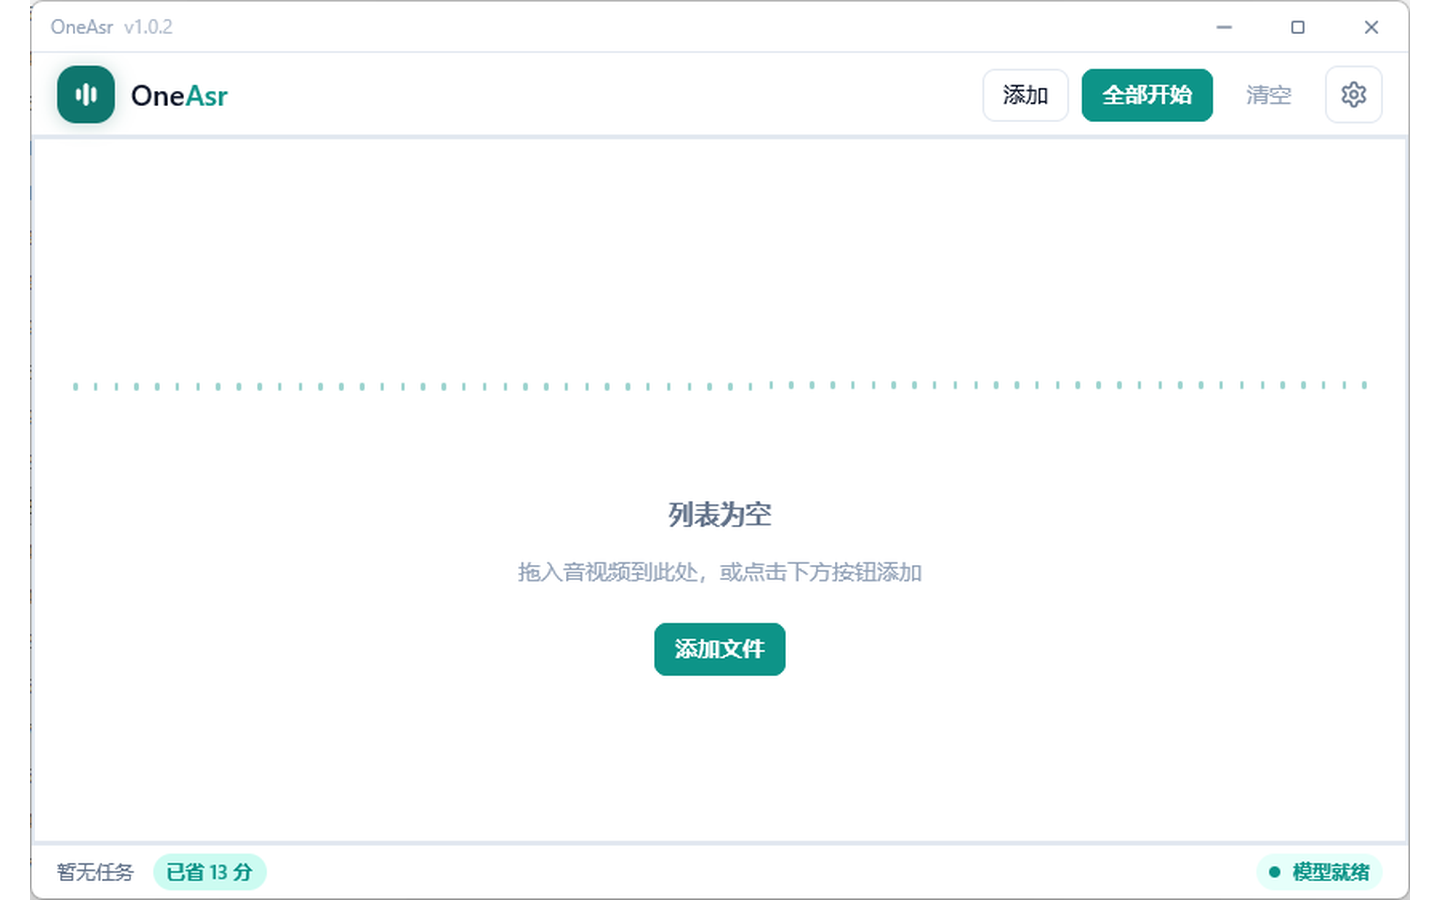
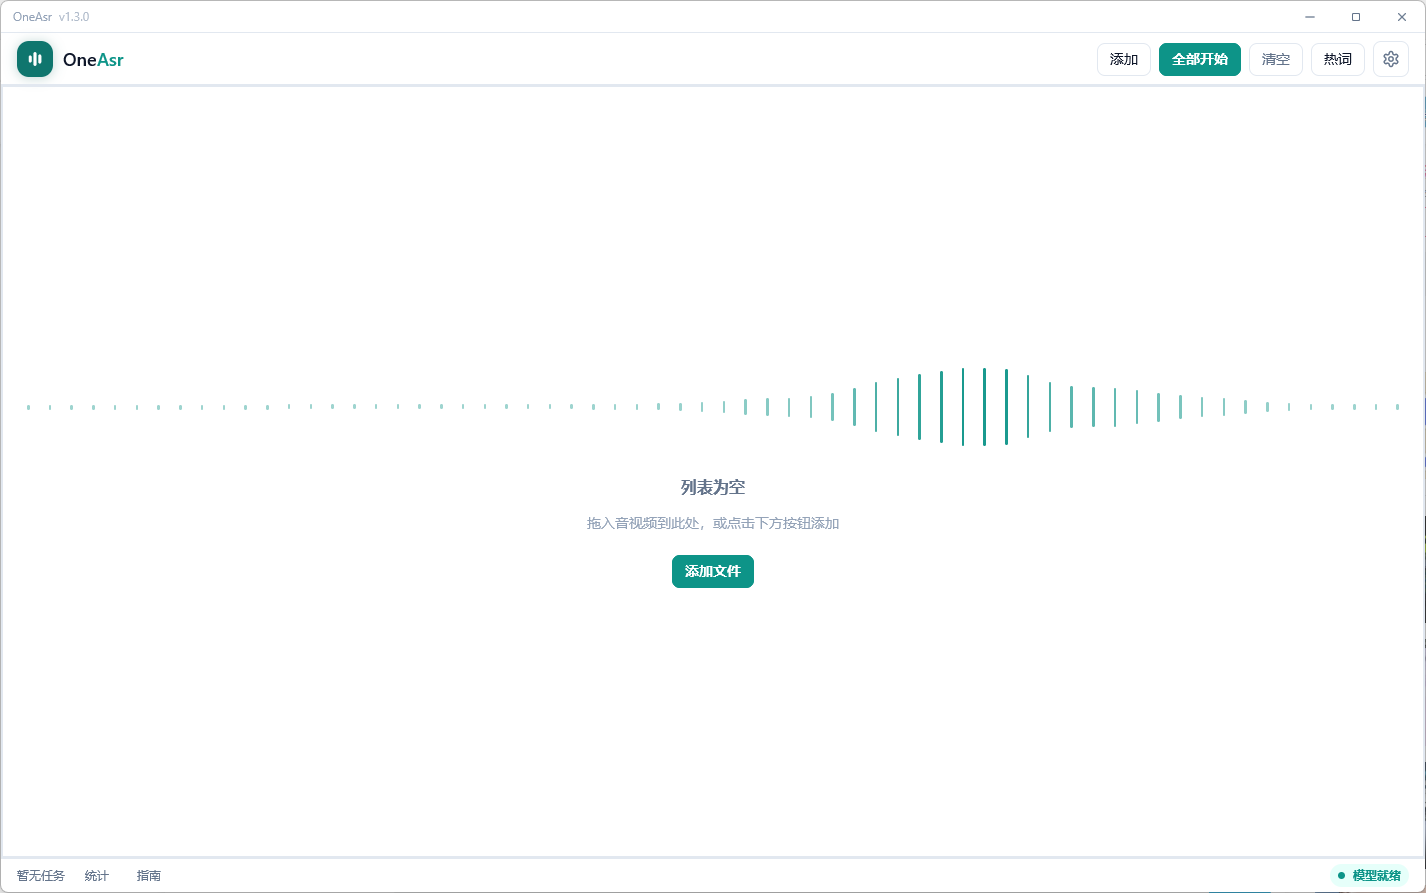
docs(readme): 用 v1.3.0 的两张新截图替换旧图（主界面 / 设置抽屉）
旧图还停在 v1.0.2。新图由你实机截取（1426×893，标题栏 v1.3.0）：主界面空态
（含波形动画）与设置抽屉。第二张的内容不再是"任务列表 + 设置"，
`tasks-settings.png` 随之改名为 `settings.png`；双 README 的小节图注、表头与
alt 文案同步更新。

验证：scripts/verify-version.py、scripts/verify-i18n.py 通过（README 头部
版本链接窗口未受影响）。
未验：GitHub 上的实际渲染观感。

Changed region(s): [[0.0, 0.0, 1.0, 1.0], [0.3703, 0.514, 0.648, 0.7559], [0.5554, 0.4233, 0.864, 0.4838]]

diff --git a/README.md b/README.md
@@ -43,11 +43,11 @@ Current version **[v1.3.0](https://github.com/eclipse005/OneAsr/releases/tag/v1.
 
 ## Screenshots
 
-Main window (empty state) and the task list + settings drawer (same window size, side by side):
+The main window and the settings drawer (same window size, side by side):
 
-| Main window (empty state) | Tasks & settings |
+| Main window (empty state) | Settings drawer |
 |---|---|
-| <img src="docs/images/main.png" width="420" alt="Main window, empty state" /> | <img src="docs/images/tasks-settings.png" width="420" alt="Task list and settings drawer" /> |
+| <img src="docs/images/main.png" width="420" alt="Main window, empty state" /> | <img src="docs/images/settings.png" width="420" alt="Settings drawer" /> |
 
 ## Features
 

diff --git a/README.zh-CN.md b/README.zh-CN.md
@@ -43,11 +43,11 @@
 
 ## 界面预览
 
-主界面空态与任务列表 + 设置抽屉（并排同一尺寸）：
+主界面与设置抽屉（并排同一尺寸）：
 
-| 主界面（空态） | 任务列表与设置 |
+| 主界面（空态） | 设置抽屉 |
 |---|---|
-| <img src="docs/images/main.png" width="420" alt="主界面空态" /> | <img src="docs/images/tasks-settings.png" width="420" alt="任务列表与设置抽屉" /> |
+| <img src="docs/images/main.png" width="420" alt="主界面空态" /> | <img src="docs/images/settings.png" width="420" alt="设置抽屉" /> |
 
 ## 功能
 
